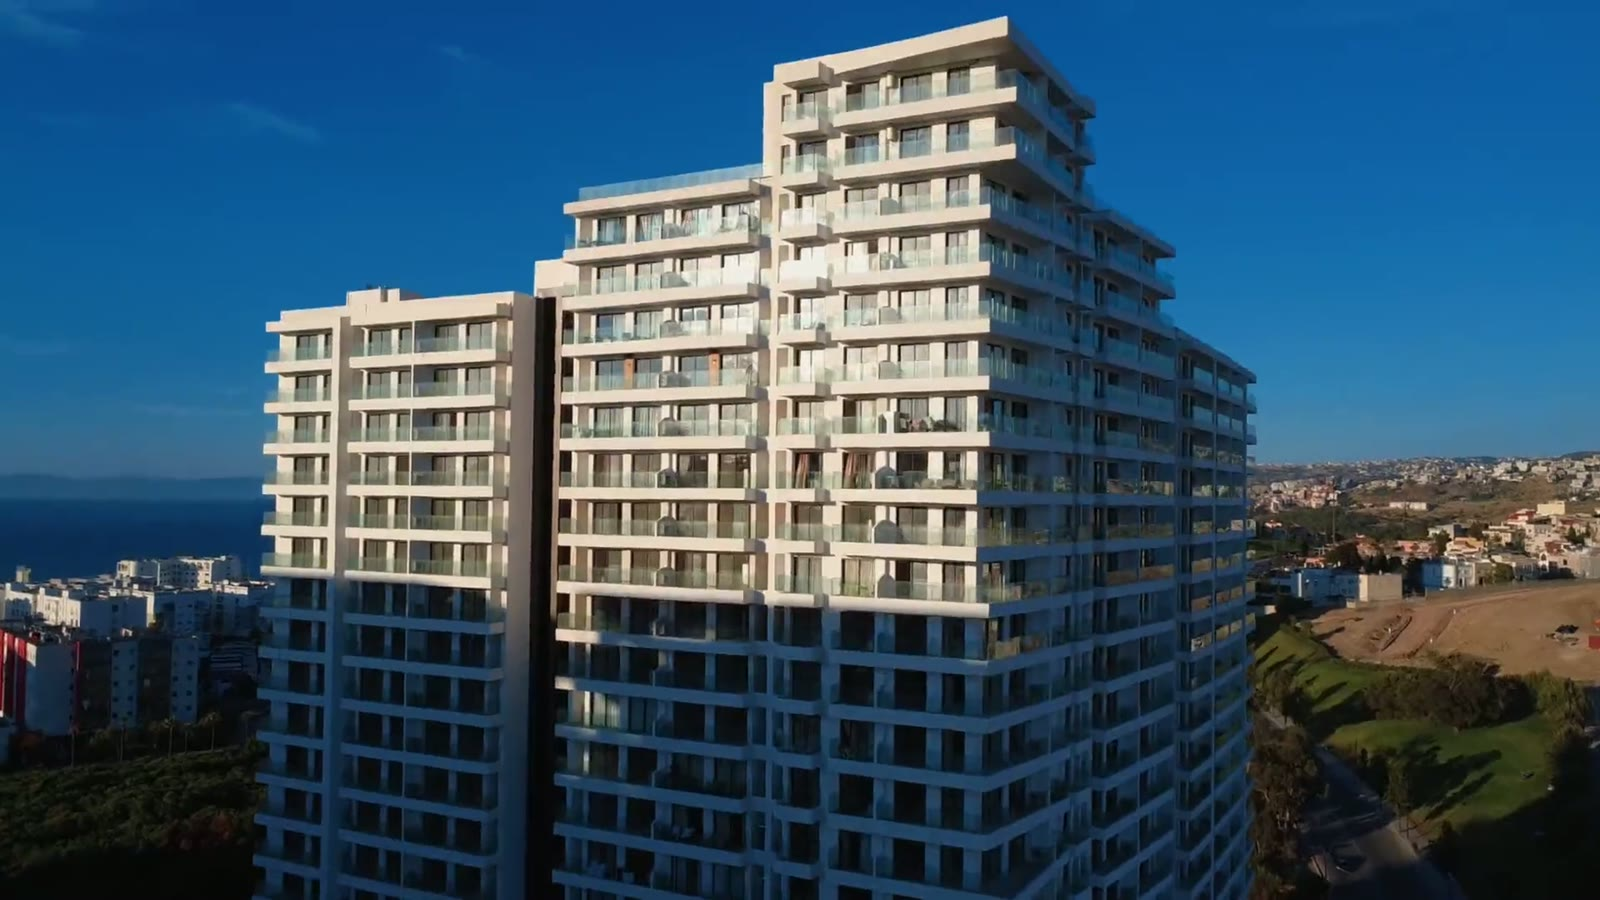
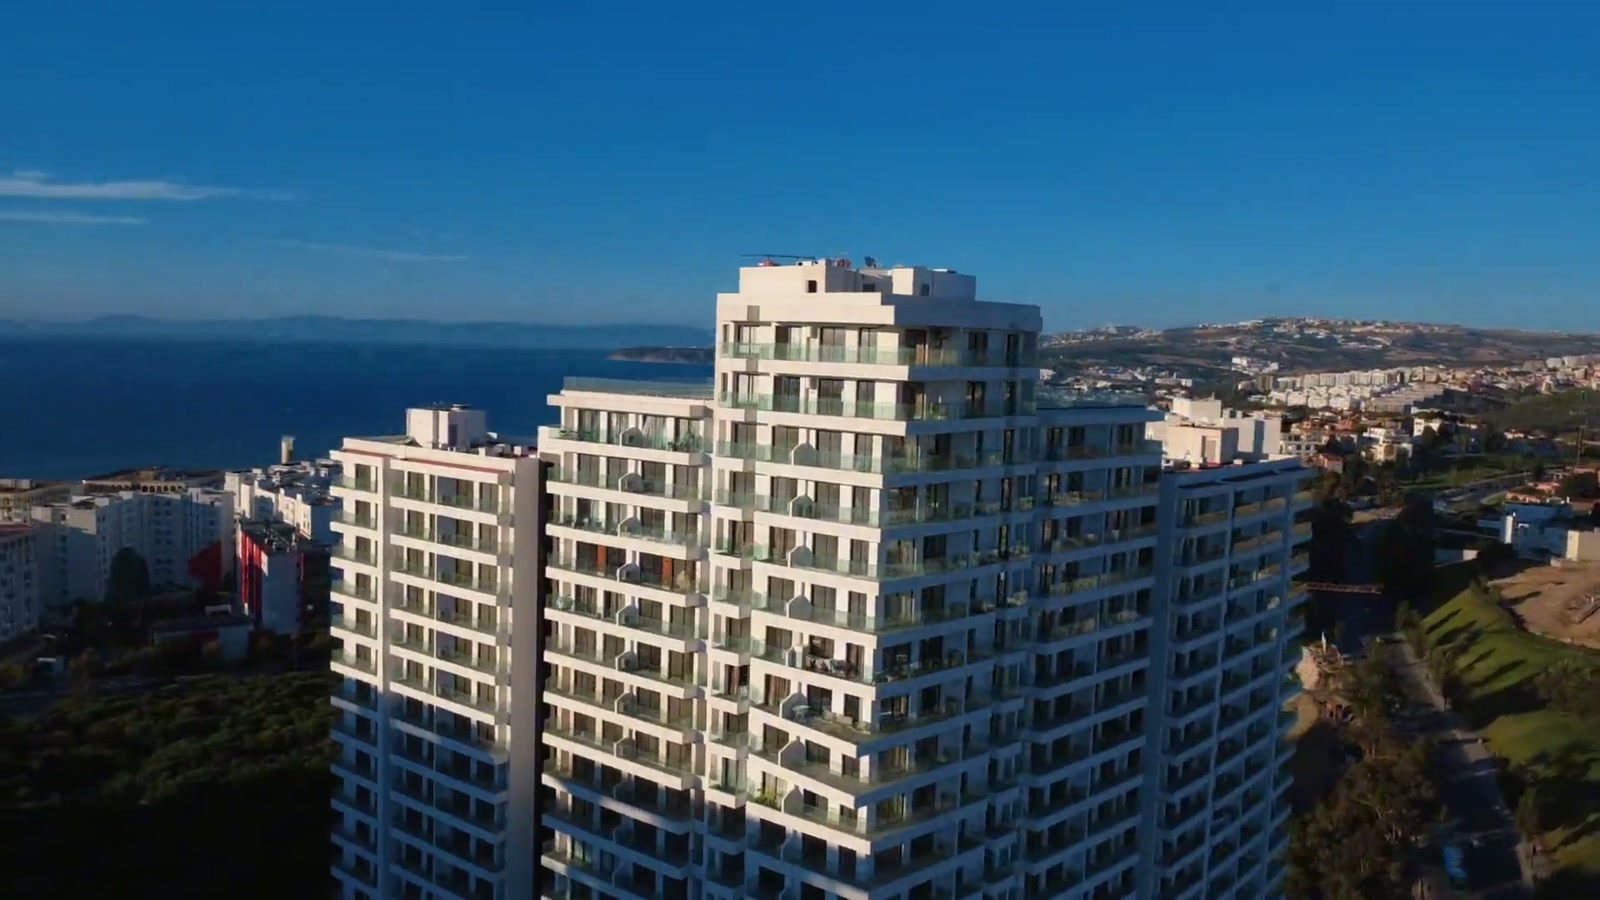
polish: swap 3 gallery stills for cleaner marketing frames (no laundry/cars visible)
Frames re-selected from 2s-interval contact sheets (32 frames of the cinematic,
20 of the location edit, 30 of the interior edit), scored on visible life
detail, composition and light.

  g1  t=58.0 -> t=44.0, cropped to the top 74% of frame
      Blue-hour facade: glass balustrades, planted balconies, strong vertical
      rhythm. The crop drops the kerb where parked cars sat. Replaces the
      previous frame, which had laundry drying on a balcony mid-composition.

  g2  t=9.0 -> t=24.0
      Wide establishing from the seaward side: the towers against the bay with
      the coastline behind. Far enough out that no individual life detail
      resolves; no vehicles in frame.

  g7  DROPPED — no acceptable frame exists. See below.

triple-towers-location.mp4 is a boulevard flyover: all 20 sampled frames carry
moving or parked traffic, and every frame showing the tower also shows cars
along the kerb. interior.mp4 is not a substitute either — the old-logo
watermark sits on every frame and burned-in captions on most. Rather than ship
a weak image, the slot is removed: the gallery is now 7 stills instead of 8.
Nothing was deleted from disk, and the g7 alt strings stay in both locales so
restoring the slot is a one-line change once photography exists.

Alt text for g1 and g2 re-read against the new frames and still accurate
("façade achevée en lumière du soir", "face à la baie de Tanger").

diff --git a/lib/projects.ts b/lib/projects.ts
@@ -94,9 +94,16 @@ export const projects: Project[] = [
         mode: "feature",
       },
     ],
-    // The three exterior stills below replace drone-1.jpg, drone-2.jpg and
-    // reel-1.jpg, which all showed the towers in shell state (bare concrete,
-    // crane, no glazing). Those files stay on disk, simply unreferenced.
+    // The two exterior stills below replace drone-1.jpg and drone-2.jpg, which
+    // showed the towers in shell state (bare concrete, crane, no glazing).
+    //
+    // The street-level slot (reel-1.jpg -> gallery-location-1.jpg) is dropped
+    // rather than refilled: triple-towers-location.mp4 is a boulevard flyover,
+    // and every one of its 20 sampled frames contains moving or parked traffic,
+    // so no frame clears the quiet-luxury bar. interior.mp4 is not an
+    // alternative either — every frame carries the old-logo watermark and most
+    // carry burned-in captions. Needs new photography; see PHASE-2A-SUMMARY.md.
+    // All unused files remain on disk.
     gallery: [
       { src: "/images/triple-towers/gallery-cinematic-1.jpg", altKey: "g1" },
       { src: "/images/triple-towers/gallery-cinematic-2.jpg", altKey: "g2" },
@@ -104,7 +111,6 @@ export const projects: Project[] = [
       { src: "/images/triple-towers/interieur-2.jpg", altKey: "g4" },
       { src: "/images/triple-towers/interieur-3.jpg", altKey: "g5" },
       { src: "/images/triple-towers/interieur-4.jpg", altKey: "g6" },
-      { src: "/images/triple-towers/gallery-location-1.jpg", altKey: "g7" },
       { src: "/images/triple-towers/reel-2.jpg", altKey: "g8" },
     ],
     amenities: [
